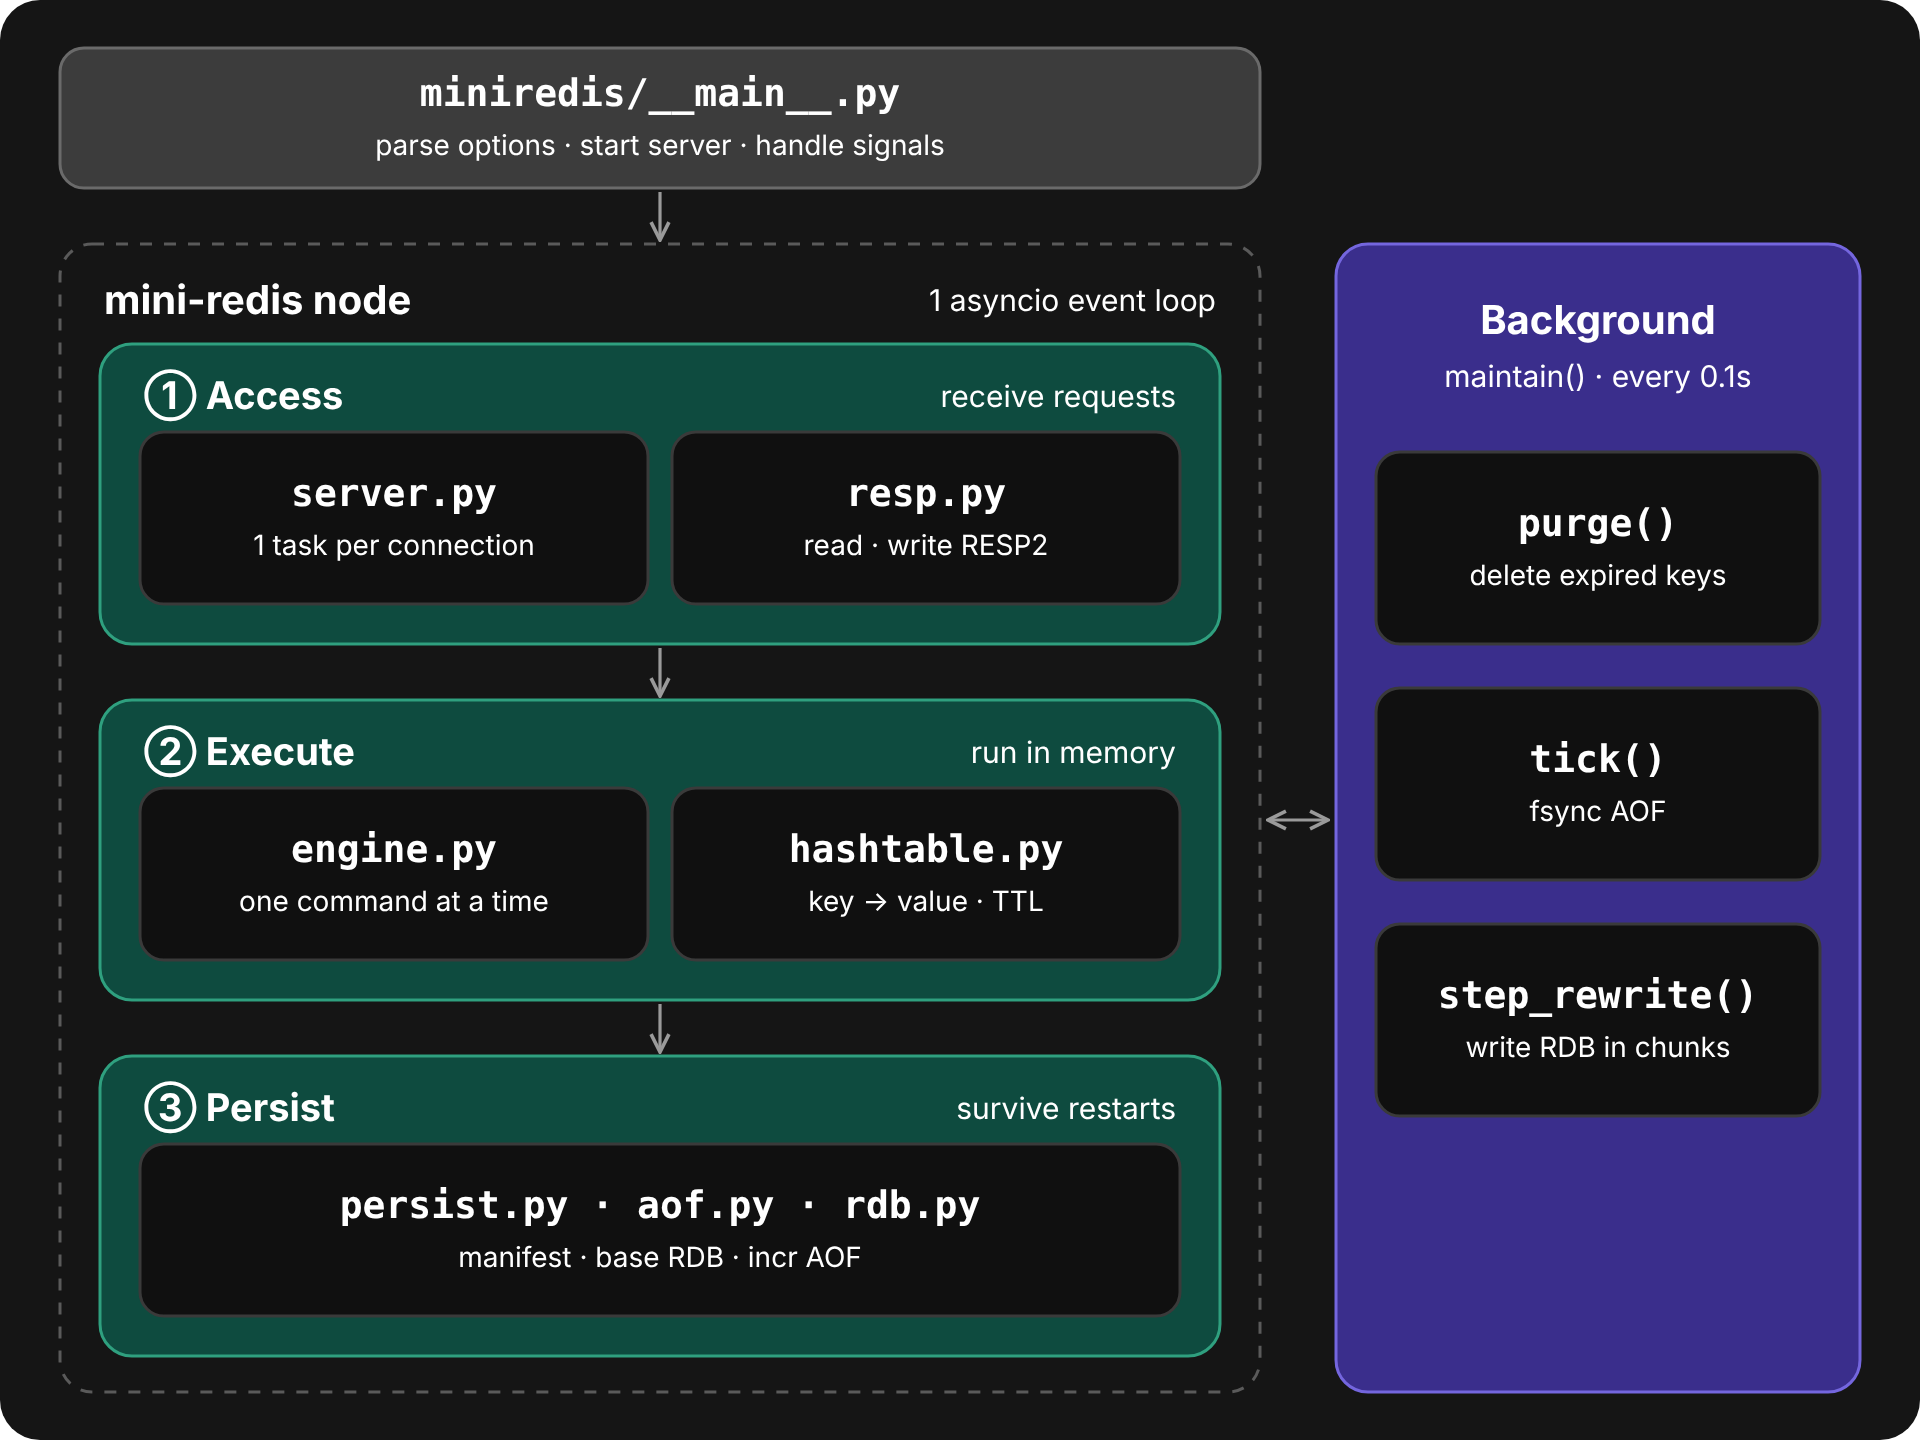
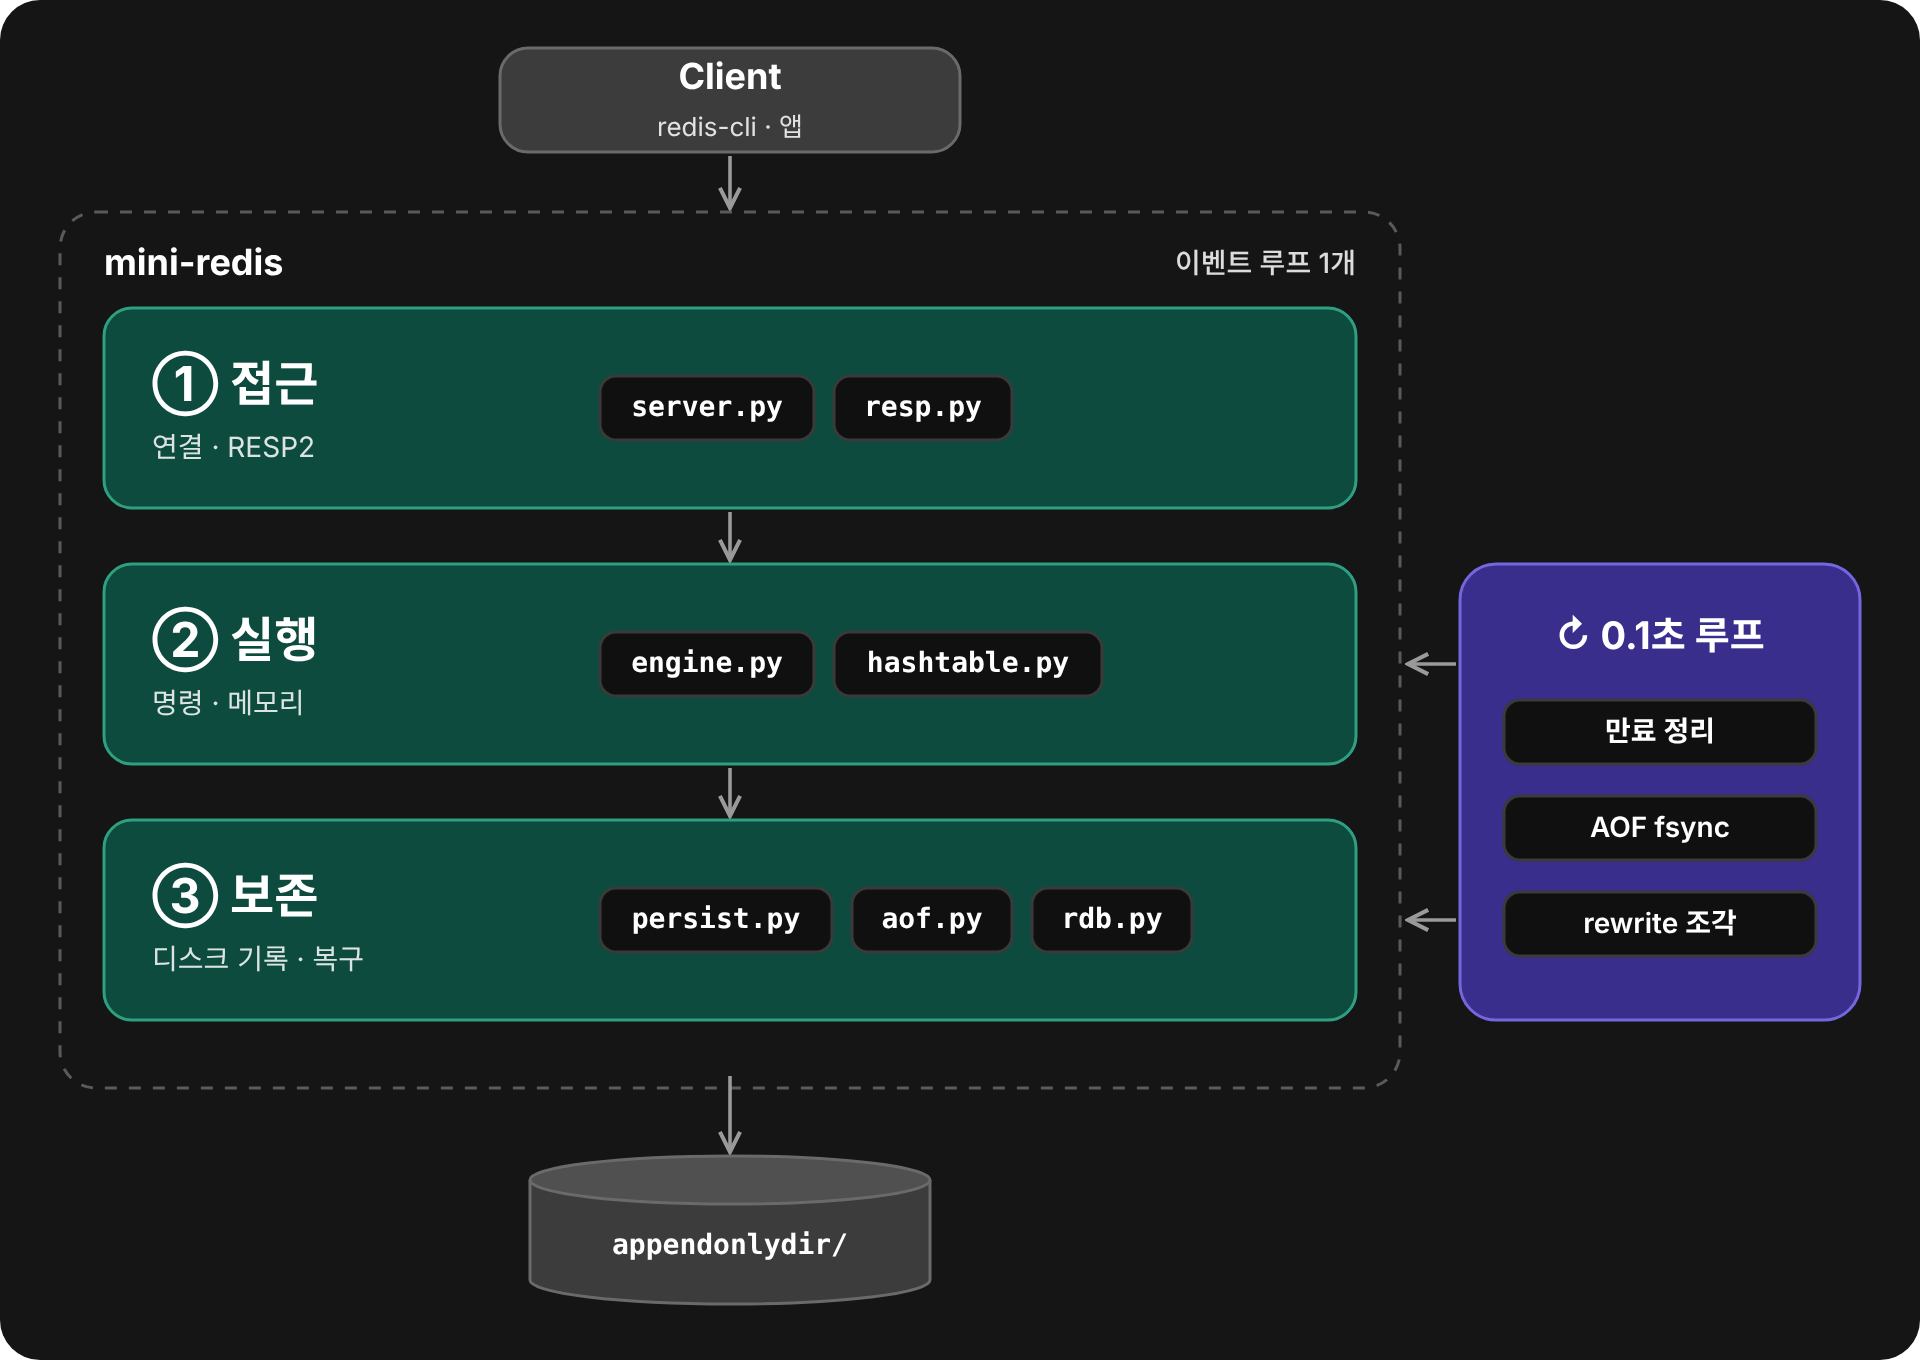
README 한국어 설명과 구조·성능 이미지 갱신

diff --git a/readme.md b/readme.md
@@ -8,7 +8,7 @@
 
 ### Python 표준 라이브러리로 만든 단일 노드 Redis
 
-**Many connections, one line of execution. Log first, expire lazily.**
+**연결은 여러 개, 실행은 한 줄로. 기록은 먼저, 만료는 읽을 때와 틈날 때.**
 
 ![Python 3.9+](https://img.shields.io/badge/Python-3.9+-3776AB?logo=python&logoColor=white)
 ![dependencies](https://img.shields.io/badge/dependencies-0-2ea44f)
@@ -28,7 +28,7 @@
 
 ## Quick Start
 
-Python 3.9+, 외부 패키지 없음.
+Python 3.9 이상, 외부 패키지 없음.
 
 ```sh
 python3 -m miniredis                  # 127.0.0.1:6379, ./appendonlydir/에 저장
@@ -41,43 +41,42 @@ redis-cli HSET user:42 city Seoul     # (integer) 1
 redis-cli TTL visits                  # (integer) 60
 ```
 
-Memory only: `python3 -m miniredis -addr 127.0.0.1:6380 -aof ''`
+메모리 전용: `python3 -m miniredis -addr 127.0.0.1:6380 -aof ''`
 
 <br />
 
 ## Design Goals
 
-| Goal | Solution | Code |
+| 과제 | 해결 | 코드 |
 | --- | --- | --- |
-| **Concurrency** | Single thread. `asyncio` event loop 1개 + `await` 없는 `execute` → 명령이 섞이지 않아 lock 불필요 | [server.py](miniredis/server.py) · [engine.py](miniredis/engine.py) |
-| **Expired keys** | Lazy: 읽을 때 지우고 nil · Active: 0.1초마다 20개씩 정리 | [engine.py](miniredis/engine.py) |
-| **API** | Redis와 같은 RESP2 over TCP → `redis-cli` 그대로 사용. HTTP cache 예제 포함 | [resp.py](miniredis/resp.py) · [examples/](examples) |
-| **Invalidation** | `DEL` · `EXPIRE` · `SET` 덮어쓰기. 모두 AOF에 남아 재시작 후에도 유지 | [engine.py](miniredis/engine.py) |
-| **Crash safety** | AOF first, memory second. base RDB + incr AOF + manifest로 복구 | [persist.py](miniredis/persist.py) |
+| **동시성** | 싱글 스레드. 이벤트 루프 1개 + `await` 없는 `execute` → 명령이 섞이지 않아 락 불필요 | [server.py](miniredis/server.py) · [engine.py](miniredis/engine.py) |
+| **만료된 값** | 접근 시 검사해 삭제 + 0.1초 루프가 20개씩 이어서 정리 | [engine.py](miniredis/engine.py) |
+| **외부 API** | Redis와 같은 RESP2 over TCP → `redis-cli` 그대로 사용. HTTP 캐시 예제 포함 | [resp.py](miniredis/resp.py) · [examples/](examples) |
+| **무효화** | `DEL` · `EXPIRE` · `SET` 덮어쓰기. AOF에 남아 재시작 후에도 유지 | [engine.py](miniredis/engine.py) |
+| **서버 다운 대비** | AOF에 먼저 기록 → 메모리 반영. base RDB + incr AOF + manifest로 복구 | [persist.py](miniredis/persist.py) |
 
 <br />
 
 ## Client Side
 
-### Request Flow
+### 요청 흐름
 
-![Client → Read → Execute → Reply](assets/how-it-works.png)
+![Client → 읽기 → 실행 → 응답](assets/how-it-works.png)
 
-1. **Read** — 연결마다 RESP2 frame을 하나씩 읽음. 기다리는 동안 다른 연결 처리
-2. **Execute** — `Engine.execute`가 명령 하나를 끝까지 실행
-3. **Log** — 쓰기는 AOF에 먼저 기록, 성공하면 메모리 반영
-4. **Reply** — RESP2로 응답. pipeline은 보낸 순서대로
+1. **읽기** — 연결마다 RESP2 명령을 하나씩 읽음. 기다리는 동안 다른 연결 처리
+2. **실행** — 명령 하나를 끝까지 실행. 쓰기는 AOF에 먼저 기록 후 메모리 반영
+3. **응답** — RESP2로 돌려줌. 파이프라인은 보낸 순서대로
 
-### Commands
+### 지원 명령
 
-| Type | Commands |
+| 종류 | 명령 |
 | --- | --- |
-| String | `SET` (`EX`, `NX`) · `GET` · `INCR` · `MSET` · `MGET` |
-| Hash | `HSET` · `HGET` |
-| Key | `DEL` · `EXISTS` · `TYPE` · `EXPIRE` · `TTL` |
-| Server | `PING` · `BGREWRITEAOF` |
+| 문자열 | `SET` (`EX`, `NX`) · `GET` · `INCR` · `MSET` · `MGET` |
+| 해시 | `HSET` · `HGET` |
+| 키 | `DEL` · `EXISTS` · `TYPE` · `EXPIRE` · `TTL` |
+| 서버 | `PING` · `BGREWRITEAOF` |
 
-### Use as an API — Cache Example
+### API로 쓰기 — 캐시 예제
 
 SQLite 주문 8만 건 집계를 Mini Redis에 캐시하는 HTTP API.
 
@@ -93,120 +92,116 @@ DB가 바뀌면 `DEL`로 바로 무효화. Mini Redis가 꺼져 있으면 `X-Cac
 
 ## Engine Side
 
-### Architecture
+### 전체 구조
 
-![mini-redis node: Access, Execute, Persist layers and a background loop](assets/layers.png)
+![mini-redis: 접근 · 실행 · 보존 세 레이어와 0.1초 루프](assets/layers.png)
 
-| Layer | Role |
+| 레이어 | 역할 |
 | --- | --- |
-| ① Access | TCP 연결 · RESP2 읽기/쓰기. 64개 명령마다 loop에 양보 |
-| ② Execute | 명령 검사 · keyspace 읽기/쓰기 · 만료 판정 |
-| ③ Persist | AOF 기록 · RDB snapshot · 시작 시 복구 |
-| Background | 0.1초마다 만료 정리 · fsync · rewrite 조각 쓰기 |
+| ① 접근 | TCP 연결 · RESP2 읽기/쓰기 |
+| ② 실행 | 명령 검사 · 키 공간 읽기/쓰기 · 만료 판정 |
+| ③ 보존 | AOF 기록 · RDB 스냅샷 · 시작 시 복구 |
+| 0.1초 루프 | 만료 정리 · fsync · rewrite 조각 쓰기 |
 
-### Concurrency — Single Thread
+### 동시성 — 싱글 스레드
 
-![Three clients share one event loop; commands run one at a time](assets/single-thread.png)
+![연결 A·B·C가 이벤트 루프 하나로 모여 한 줄로 실행](assets/single-thread.png)
 
-연결은 여러 개, 실행은 한 줄. `await`는 socket I/O에만 있고 `execute`는 동기 함수라 **명령 단위로 atomic**. `INCR`을 동시에 보내도 값이 꼬이지 않음. 실제 Redis도 명령 실행은 thread 하나.
+연결은 여러 개, 실행은 한 줄. `await`는 소켓을 기다릴 때만 있고 `execute`는 동기 함수라 **명령 단위로 원자적**. `INCR`을 동시에 보내도 값이 꼬이지 않음. 실제 Redis도 명령 실행은 스레드 하나.
 
-### Keyspace — HashTable
+### 키 공간 — HashTable
 
-![bucket = hash(key) & (size − 1), chaining, resize, insertion order](assets/hashtable.png)
+![hash(key)로 버킷을 정하고, 충돌하면 같은 칸에 연결, 3/4 차면 2배](assets/hashtable.png)
 
-- 키 → `hash(key)`로 bucket 결정
-- 충돌 → 같은 bucket 안에서 `next`로 연결 (chaining)
-- 키가 3/4 넘게 차면 bucket 2배
-- 삽입 순서 목록 → `purge()`가 앞에서부터 검사
+직접 구현한 [`HashTable`](miniredis/hashtable.py). 충돌은 같은 버킷에 `next`로 연결(chaining), 3/4 넘게 차면 버킷 2배. 해시의 필드는 Python `dict` 사용.
 
-[`HashTable`](miniredis/hashtable.py)은 직접 구현. hash의 field는 Python `dict` 사용.
+### 만료
 
-### Expiration
+![접근 시 검사, 0.1초 루프가 20개씩 이어서 검사](assets/expiry.png)
 
-![Lazy on read, Active every 0.1s](assets/expiry.png)
+- **접근 시 검사** — 읽을 때 만료됐으면 지우고 nil
+- **0.1초 루프** — 앞에서 20개씩 검사, 살아 있는 키는 뒤로 보내 다음 루프가 이어서 검사
 
-만료 시각은 키마다 absolute ms로 저장. 읽을 때 지났으면 지우고 nil, 아무도 안 읽는 키는 `purge()`가 정리.
+### 무효화
 
-### Invalidation
-
-| Command | Effect | AOF |
+| 명령 | 동작 | AOF 기록 |
 | --- | --- | --- |
 | `DEL k` | 즉시 삭제 | `DEL k` (있던 키만) |
 | `EXPIRE k s` | 기한 예약, 0 이하면 즉시 삭제 | `PEXPIREAT k <ms>` |
 | `SET k v` | 새 값으로 교체, TTL 해제 | `SET k v [PXAT <ms>]` |
 
-### Persistence
+### 영속화
 
-![Write: append to incr.aof, apply, reply. appendonlydir: manifest, base.rdb, incr.aof](assets/persistence.png)
+![쓰기: AOF 기록 → 메모리 반영 → +OK. 재시작: manifest → base.rdb + incr.aof 재생](assets/persistence.png)
 
 Redis 7과 같은 `appendonlydir/` 구조.
 
 - **manifest** — 지금 읽을 파일 목록
-- **base.rdb** — 한 시점의 snapshot
-- **incr.aof** — snapshot 이후 쓰기 기록
+- **base.rdb** — 한 시점의 스냅샷
+- **incr.aof** — 스냅샷 이후 쓰기 기록
 
 rewrite 중에 꺼져도 manifest가 이전 파일을 가리켜 안전.
 
-| `-appendfsync` | fsync | 전원이 꺼지면 |
+| `-appendfsync` | fsync 시점 | 전원이 꺼지면 |
 | --- | --- | --- |
 | `always` | 응답 전 매번 | 손실 없음 |
-| `everysec` (default) | 약 1초마다 | 최대 약 1초 |
+| `everysec` (기본) | 약 1초마다 | 최대 약 1초 |
 | `no` | OS에 맡김 | OS에 따라 |
 
 <br />
 
 ## Benchmark
 
-### Cache On vs Off
+### 캐시 사용 전후
 
-주문 8만 건, 보고서 8개를 client 하나가 순환 요청. 요청마다 새 HTTP 연결, 응답은 SQLite 원본과 대조.
+주문 8만 건, 보고서 8개를 클라이언트 하나가 순환 요청. 요청마다 새 HTTP 연결, 응답은 SQLite 원본과 대조.
 
-![Cache on: median latency 85% faster, 6.5× throughput](assets/bench-cache.png)
+![캐시를 켜면 응답 시간 중앙값 85% 단축, 처리량 6.5배](assets/bench-cache.png)
 
-| Mode | Requests | Median | p95 | Throughput |
+| 처리 방식 | 요청 수 | 중앙값 | p95 | 초당 처리량 |
 | --- | ---: | ---: | ---: | ---: |
-| Cache off · SQLite | 4,800 | 1.427 ms | 1.551 ms | 691.7 req/s |
-| Cache on · Mini Redis hit | 4,800 | **0.211 ms** | **0.253 ms** | **4,469.6 req/s** |
+| 캐시 끔 · SQLite 직접 집계 | 4,800 | 1.427 ms | 1.551 ms | 691.7건 |
+| 캐시 켬 · Mini Redis 적중 | 4,800 | **0.211 ms** | **0.253 ms** | **4,469.6건** |
 
-<sub>commit `7cc4efa` · Mac mini Linux VM (aarch64, 4 cores) · Python 3.10.12 · SQLite 3.37.2 · 800 req × 6 rounds · [result JSON](benchmarks/results/2026-11-17-7cc4efa-cache-api.json) · [code](benchmarks/cache_api.py)</sub>
+<sub>commit `7cc4efa` · Mac mini Linux VM (aarch64, 4코어) · Python 3.10.12 · SQLite 3.37.2 · 800건 × 6라운드 · [결과 JSON](benchmarks/results/2026-11-17-7cc4efa-cache-api.json) · [측정 코드](benchmarks/cache_api.py)</sub>
 
 ```sh
 python3 -m benchmarks.cache_api --requests 800 --rounds 6
 ```
 
-### vs Redis 7
+### Redis 7과 비교
 
-같은 기기에서 `redis-benchmark`로 SET · GET 측정. 양쪽 모두 persistence off.
+같은 기기에서 `redis-benchmark`로 SET · GET 측정. 양쪽 모두 디스크 저장 끔.
 
-| req/s | Mini Redis | Redis 7.0.15 | Gap |
+| 초당 처리량 | Mini Redis | Redis 7.0.15 | 차이 |
 | --- | ---: | ---: | ---: |
-| SET · no pipeline | 17,989 | 104,493 | 5.8× |
-| GET · no pipeline | 19,912 | 106,045 | 5.3× |
-| SET · pipeline 16 | 21,249 | 1,234,568 | 58× |
-| GET · pipeline 16 | 24,612 | 1,587,302 | 64× |
+| SET · 파이프라인 없음 | 17,989 | 104,493 | 5.8배 |
+| GET · 파이프라인 없음 | 19,912 | 106,045 | 5.3배 |
+| SET · 파이프라인 16 | 21,249 | 1,234,568 | 58배 |
+| GET · 파이프라인 16 | 24,612 | 1,587,302 | 64배 |
 
-하나씩 보내면 network 왕복이 대부분이라 약 5배 차이. pipeline으로 몰아 보내면 실행 속도 차이(Python vs C)가 그대로 드러남.
+하나씩 보내면 네트워크 왕복이 대부분이라 약 5배 차이. 파이프라인으로 몰아 보내면 실행 속도 차이(Python vs C)가 그대로 드러남.
 
-<sub>Linux x86_64, 2 vCPU · Python 3.13.18 · 50 clients · 100k req × 3 rounds, median · [result JSON](benchmarks/results/2026-11-17-vs-redis-linux-x64.json) · [code](benchmarks/vs_redis.py)</sub>
+<sub>Linux x86_64, 2 vCPU · Python 3.13.18 · 연결 50개 · 10만 건 × 3회 중앙값 · [결과 JSON](benchmarks/results/2026-11-17-vs-redis-linux-x64.json) · [측정 코드](benchmarks/vs_redis.py)</sub>
 
 ```sh
 python3 -m benchmarks.vs_redis       # redis-server, redis-benchmark 필요
 ```
 
 <details>
-<summary>Hash fields: dict vs custom HashTable</summary>
+<summary>해시 필드 저장소: dict vs 직접 만든 HashTable</summary>
 
 <br />
 
-field 저장소를 `dict`(`9f67b74`)와 `HashTable`(`de7f275`)로 비교. 결과에 따라 `dict` 선택.
+필드 저장소를 `dict`(`9f67b74`)와 `HashTable`(`de7f275`)로 비교. 결과에 따라 `dict` 선택.
 
-| Command (per op) | dict | HashTable |
+| 명령 (1회당) | dict | HashTable |
 | --- | ---: | ---: |
-| `HSET` new field | **1.518 µs** | 2.842 µs |
-| `HSET` update | **1.505 µs** | 2.096 µs |
-| `HGET` hit | **1.104 µs** | 1.392 µs |
+| `HSET` 새 필드 | **1.518 µs** | 2.842 µs |
+| `HSET` 기존 필드 | **1.505 µs** | 2.096 µs |
+| `HGET` 있는 필드 | **1.104 µs** | 1.392 µs |
 
-<sub>1,024 keys × 16 fields · Apple M4 · macOS 15.3.2 · CPython 3.9.6 · median of 8 rounds · [result JSON](benchmarks/results/hash-fields-m4-python39.json) · [code](benchmarks/hash_fields.py)</sub>
+<sub>키 1,024개 × 필드 16개 · Apple M4 · macOS 15.3.2 · CPython 3.9.6 · 8라운드 중앙값 · [결과 JSON](benchmarks/results/hash-fields-m4-python39.json) · [측정 코드](benchmarks/hash_fields.py)</sub>
 
 </details>
 
@@ -214,11 +209,11 @@ field 저장소를 `dict`(`9f67b74`)와 `HashTable`(`de7f275`)로 비교. 결과
 
 ## FAQ
 
-**Why not multi-thread?**<br />
-명령 하나는 몇 µs라 병목은 CPU가 아니라 network I/O. I/O는 event loop로 겹치고 실행은 한 줄로 세워 lock과 race condition을 없앰.
+**왜 멀티 스레드가 아닌가요?**<br />
+명령 하나는 몇 µs라 병목은 CPU가 아니라 네트워크 I/O. I/O는 이벤트 루프로 겹치고 실행은 한 줄로 세워 락과 경쟁 조건을 없앰.
 
-**Trade-off?**<br />
-CPU core 하나만 사용. `HashTable` resize나 RDB snapshot 복사 중에는 다른 연결도 잠시 대기.
+**대신 포기한 것은?**<br />
+CPU 코어 하나만 사용. `HashTable` 확장이나 RDB 스냅샷 복사 중에는 다른 연결도 잠시 대기.
 
 **프로세스가 죽으면?**<br />
 AOF 기록은 응답 전에 OS로 넘어가 있어 남음. 기기 전원이 꺼질 때만 `everysec` 기준 마지막 약 1초 손실 가능.
@@ -233,4 +228,4 @@ python3 -m unittest discover -v
 
 `redis-server`가 PATH에 있으면 실제 Redis와 응답을 비교하고, 서로의 RDB · AOF를 읽는지 검사.
 
-[Docs: 실행 흐름 · HashTable · 복구](docs/guide.md)
+[자세히: 실행 흐름 · HashTable · 복구](docs/guide.md)
